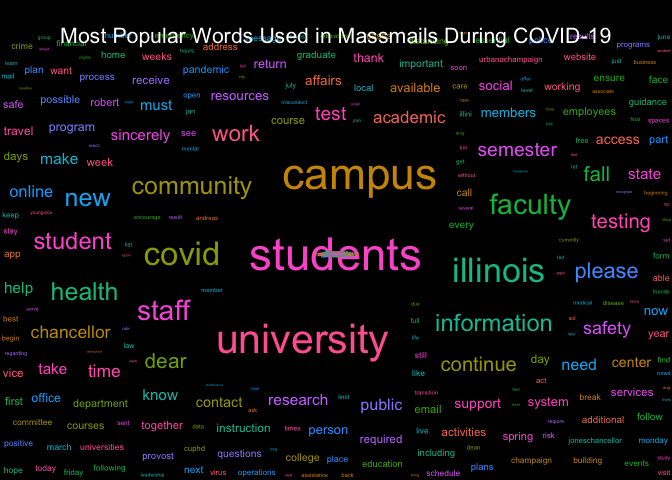
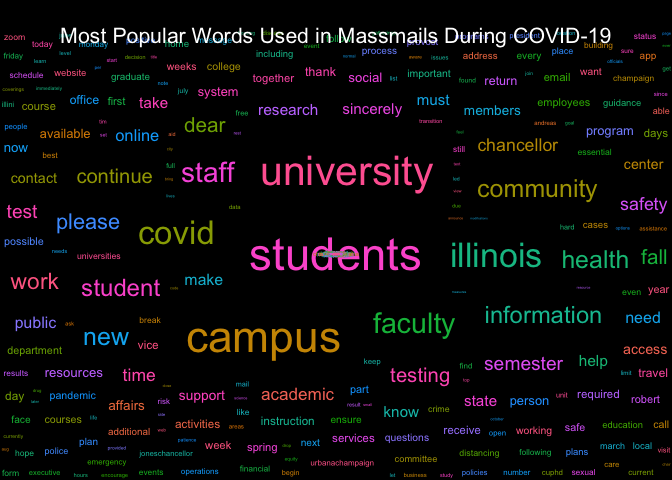
Re-build README.Rmd and Graphs

Changed region(s): [[0.0, 0.0625, 1.0, 1.0], [0.5, 0.5, 0.5312, 0.5312]]

diff --git a/README.md b/README.md
@@ -17,7 +17,7 @@ The archive may be viewed here:
 
 <https://massmail.illinois.edu/massmailArchive>
 
-Data has **1286** observations and **7** variables:
+Data has **1288** observations and **7** variables:
 
   - `datetime`: Date and time when the email was sent in the form of
     `YYYY-MM-DD HMS` with either CDT or CST.
@@ -210,16 +210,16 @@ head(most_popular_words, 10) %>%
 
 | word        | freq |
 | :---------- | ---: |
-| students    |  820 |
+| students    |  821 |
 | university  |  772 |
-| campus      |  767 |
+| campus      |  769 |
 | illinois    |  487 |
 | covid       |  440 |
+| faculty     |  408 |
 | community   |  403 |
-| faculty     |  401 |
 | information |  364 |
 | staff       |  330 |
-| student     |  316 |
+| student     |  320 |
 
 #### Wordcloud
 
